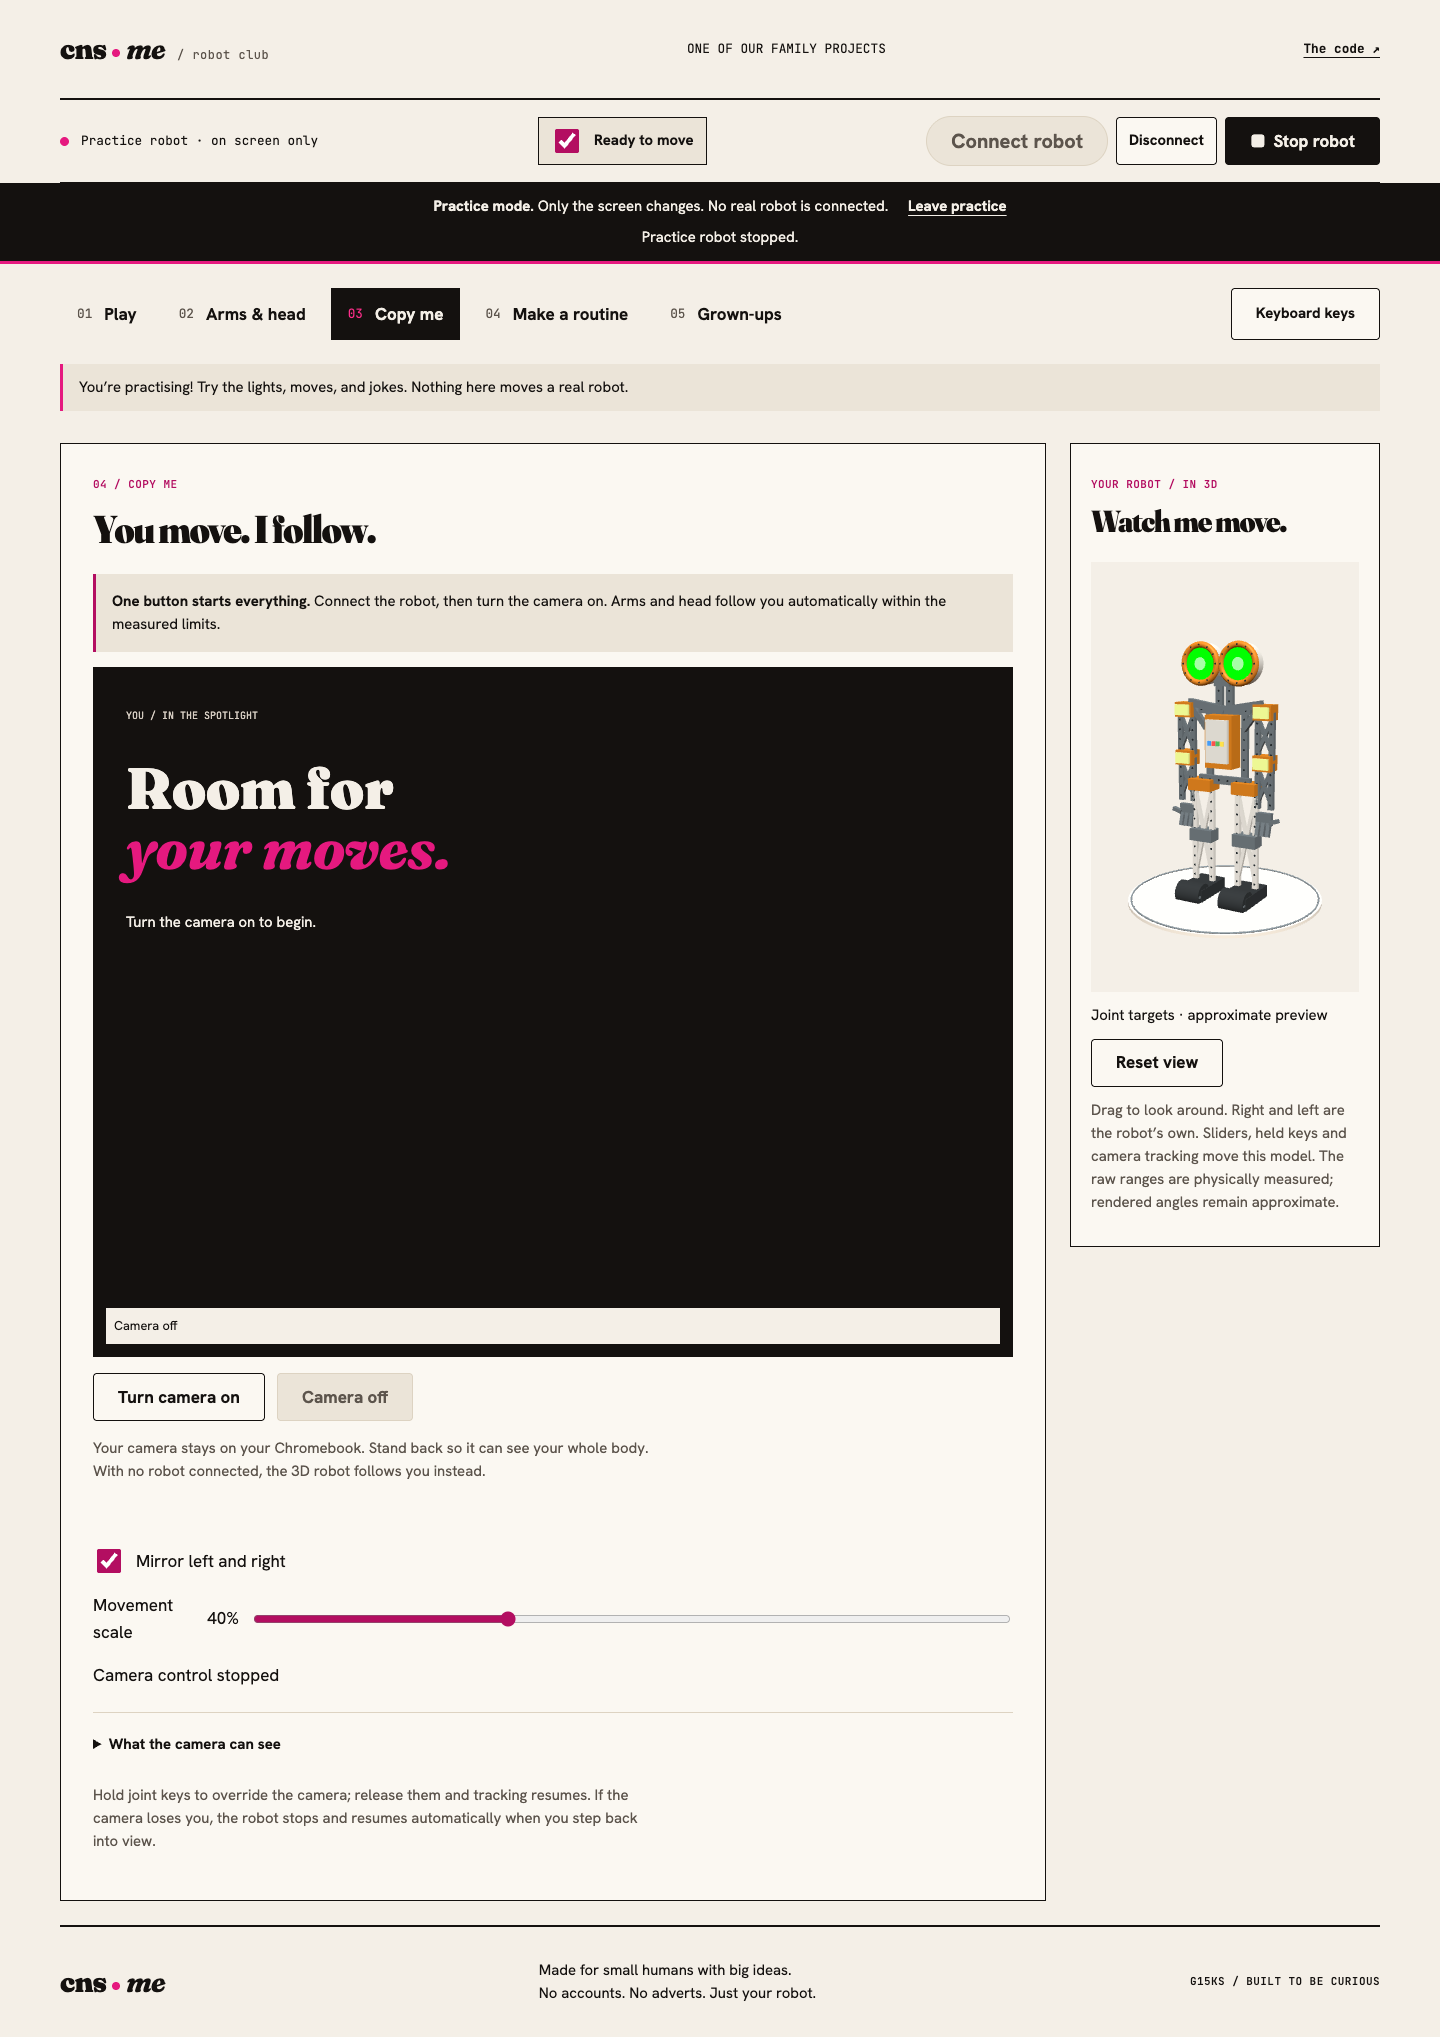
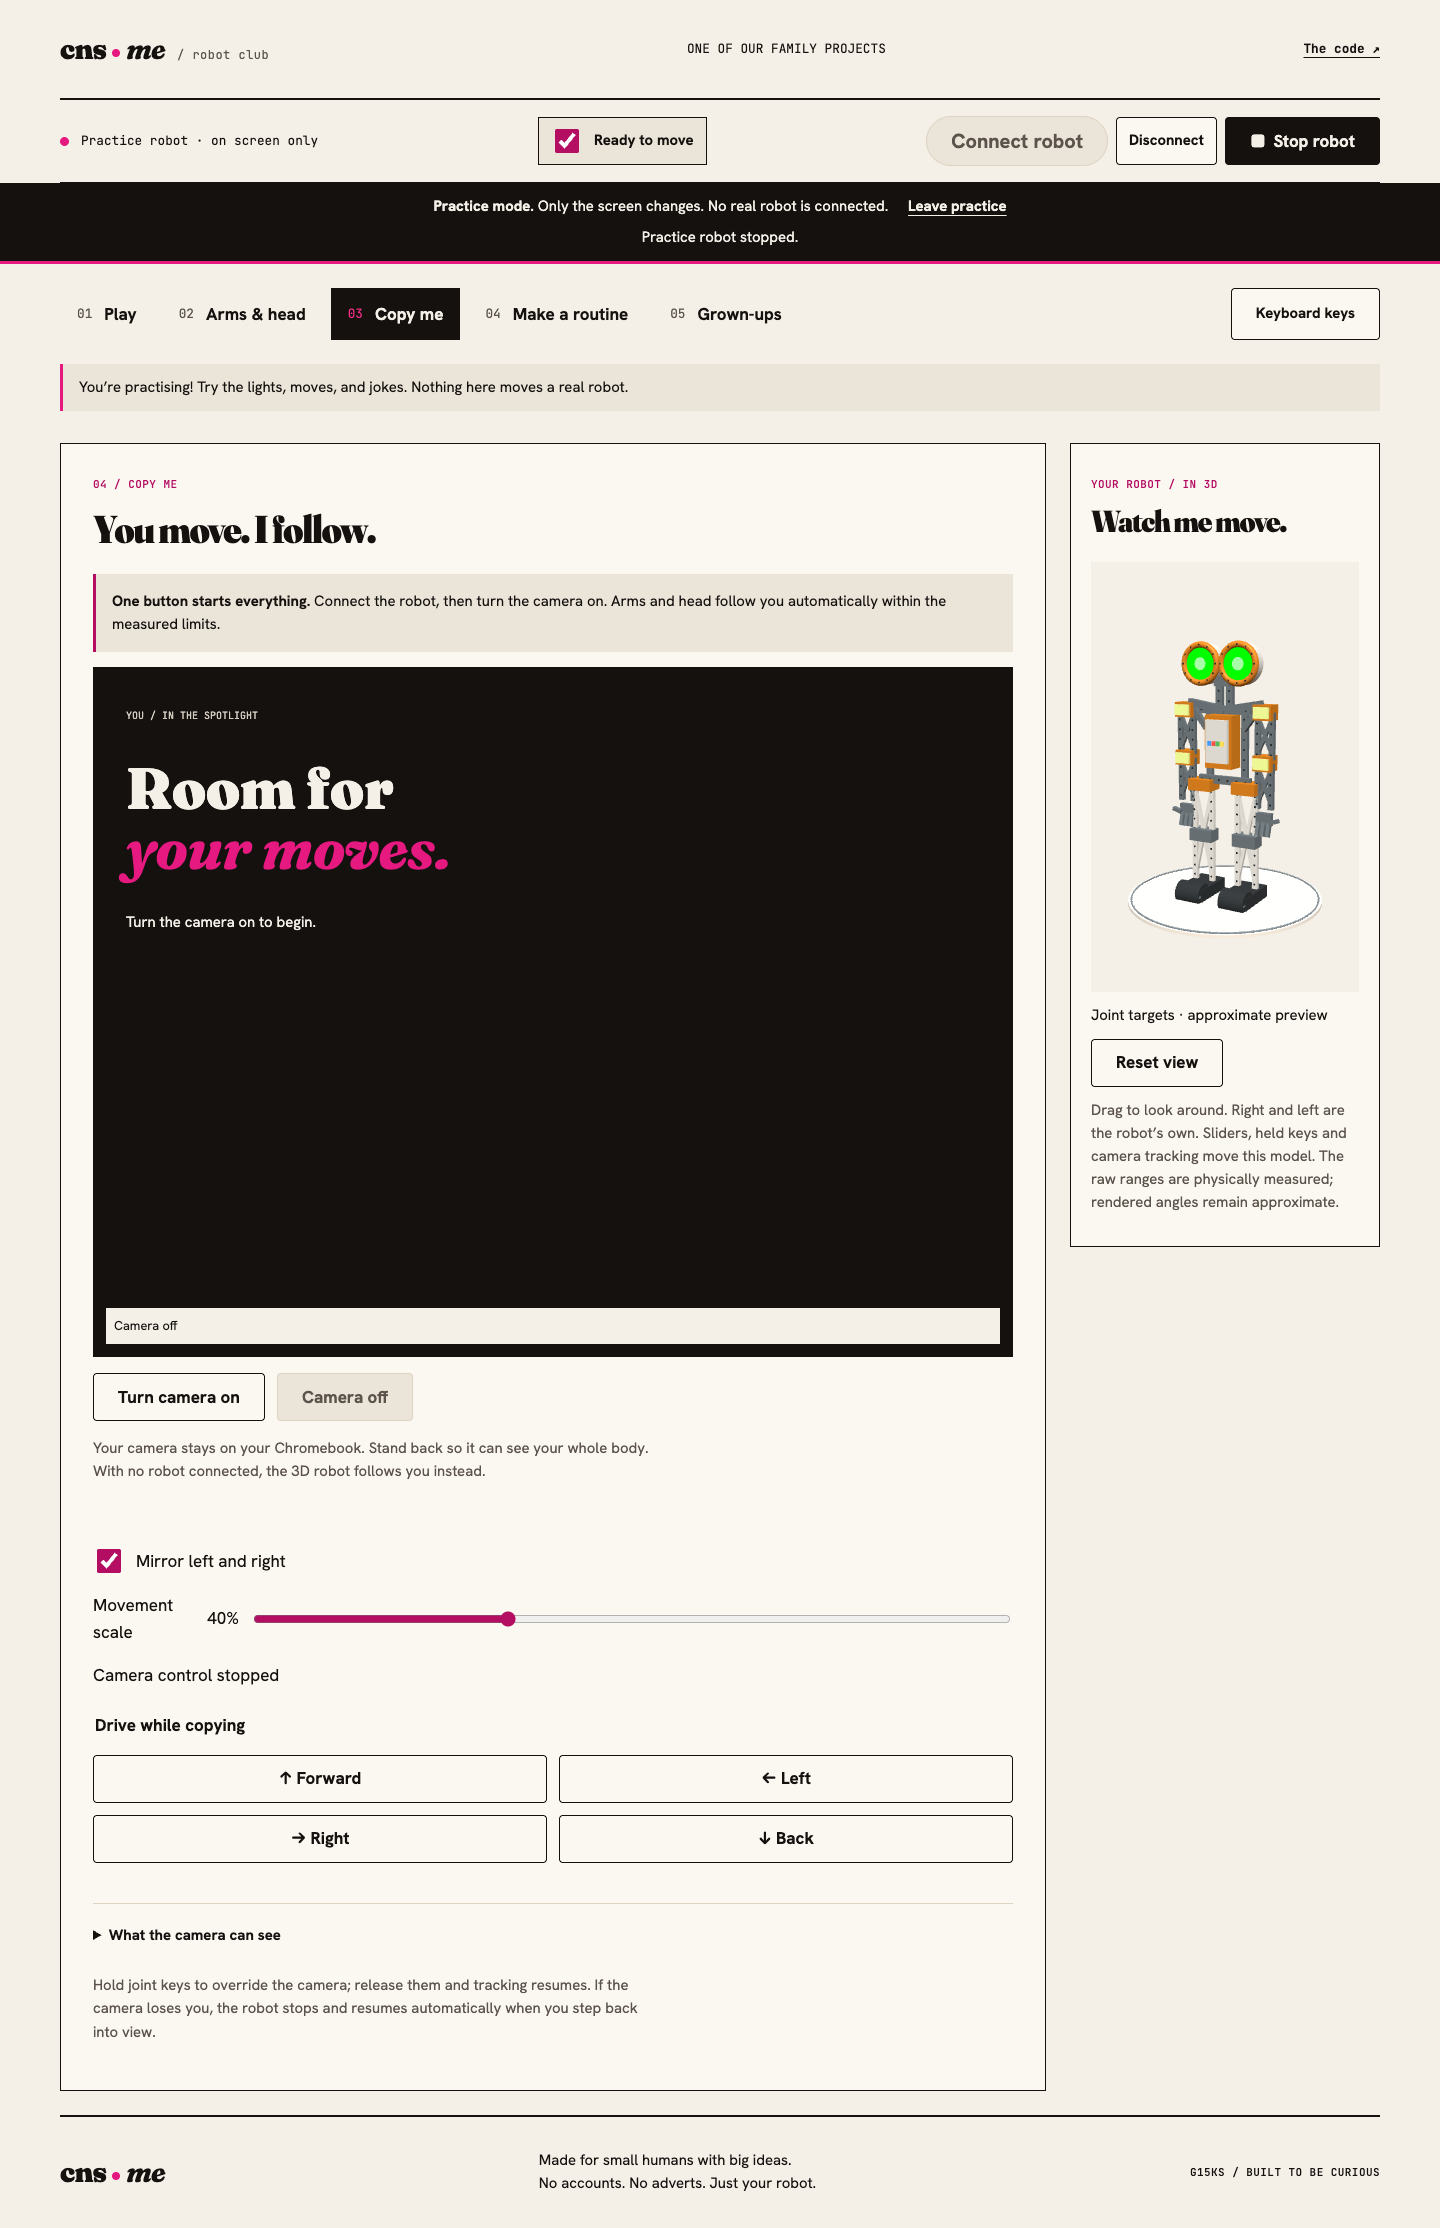
Add hold-to-drive buttons in camera mode

diff --git a/style.css b/style.css
@@ -34,4 +34,5 @@ button.held-key{background:var(--pink);color:var(--ink);outline:2px solid var(--
 @media(max-width:1050px){.workspace{grid-template-columns:minmax(0,1fr) 250px;gap:16px}.robot-preview{padding:12px}#robotPreview{height:360px}.workspace .joint-grid{grid-template-columns:1fr}.workspace .play-grid{grid-template-columns:1fr}}
 @media(max-width:760px){.workspace{display:flex;flex-direction:column}.activities{width:100%}.robot-preview{position:relative;top:auto;width:100%;order:-1;display:grid;grid-template-columns:1fr 1fr;gap:0 12px}.robot-preview #robotPreview{grid-column:2;grid-row:1/6;height:260px}.robot-preview h2{font-size:25px}.robot-preview p{font-size:13px}.robot-preview button{align-self:start}.workspace .play-grid{grid-template-columns:1fr}}
 .robot-preview{min-width:0}.robot-preview>*{min-width:0}#robotPreview{overflow:hidden}
+.copy-drive{margin:var(--s-5) 0}.copy-drive legend{font-weight:var(--w-bold)}.copy-drive .toolbar{display:grid;grid-template-columns:repeat(2,minmax(0,1fr))}.copy-drive button{min-width:0;width:100%}
 @media(max-width:760px){.robot-preview{grid-template-columns:minmax(0,1fr) minmax(0,1fr)}}

diff --git a/src/studio.js b/src/studio.js
@@ -299,6 +299,7 @@ export function setupStudio({robot,log,run,refresh,preview}) {
     const available=robot.connected&&robot.armed&&!diagnosticMode&&!teaching;
     $('startRangeCapture').disabled=!robot.connected||diagnosticMode||teaching;$('finishRangeCapture').disabled=!capturing;$('cancelRangeCapture').disabled=!teaching;
     $('arm').disabled=!robot.connected||teaching;
+    $('copyDrive').disabled=!available;
     $('servoColour').disabled=teaching;document.querySelectorAll('#chest input').forEach(input=>input.disabled=teaching);
     calRows.forEach(row=>Object.values(row).forEach(input=>input.disabled=teaching));
     for(const id of ['resetLimits','importCalibration'])$(id).disabled=teaching;

diff --git a/index.html b/index.html
@@ -263,6 +263,15 @@
 <input id="mirrorGain" type="range" min="10" max="100" value="40">
 </label>
 <p id="mirrorState" role="status">Turn the camera on to begin</p>
+<fieldset id="copyDrive" class="copy-drive" disabled>
+<legend>Drive while copying</legend>
+<div class="toolbar">
+<button data-drive="forward" aria-label="Camera mode forward">↑ Forward</button>
+<button data-drive="left" aria-label="Camera mode turn left">← Left</button>
+<button data-drive="right" aria-label="Camera mode turn right">→ Right</button>
+<button data-drive="backward" aria-label="Camera mode backward">↓ Back</button>
+</div>
+</fieldset>
 <details>
 <summary>What the camera can see</summary>
 <div id="trackingBars">

diff --git a/README.md b/README.md
@@ -21,7 +21,7 @@ School-managed Chromebooks may need Bluetooth/camera permission from an administ
 
 An interactive **3D G15KS-style robot** sits beside the controls. Drag to orbit or use Reset view. Its eight joints follow slider and keyboard targets; eye and chest colours follow light commands. Wheel commands spin the preview wheels. Raw limits come from the physical robot; the rendered geometry and angles remain an approximate illustration rather than physical feedback.
 
-In **Copy me**, connect the robot and press **Turn camera on**. That single action reads its pose, enables motion and starts controlling all eight joints. Without Bluetooth, the same camera movement drives the 3D robot only. There is no separate neutral, start or apply step. Losing tracking stops physical commands; stepping back into view resumes them.
+In **Copy me**, connect the robot and press **Turn camera on**. That single action reads its pose, enables motion and starts controlling all eight joints. Hold a direction button there, or an arrow key, to drive while the camera stays on; release to stop. Without Bluetooth, the same camera movement drives the 3D robot only. There is no separate neutral, start or apply step. Losing tracking stops physical commands; stepping back into view resumes them.
 
 **Keyboard:** hold arrow keys to drive and release to stop. Joint +/− pairs, in order: right elbow **Q/A**, right lift **W/S**, right shoulder **E/D**, left shoulder **R/F**, left lift **U/J**, left elbow **I/K**, head turn **O/L**, head tilt **P/;**. Keys work during camera control: a held joint key overrides tracking, and release hands that joint back to the camera. The on-page guide shows every shortcut. **Esc** stops and disarms anywhere; **Space** does so outside text fields. Losing window focus disarms the robot.
 
